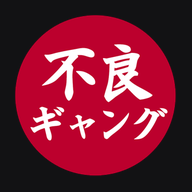
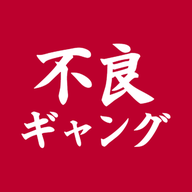
Icône de l'application : plein rouge, texte agrandi
Claude-Session: https://claude.ai/code/session_01ShgbxL6GpEPzbudUpDfTjj

diff --git a/flashcard/index.html b/flashcard/index.html
@@ -8,7 +8,7 @@
 <meta name="theme-color" content="#141312" media="(prefers-color-scheme: dark)">
 <meta name="apple-mobile-web-app-capable" content="yes">
 <meta name="apple-mobile-web-app-title" content="Carnet">
-<link rel="apple-touch-icon" href="/apple-touch-icon.png">
+<link rel="apple-touch-icon" href="/apple-touch-icon.png?v=2">
 <title>Carnet · FuryoGang</title>
 <link rel="preconnect" href="https://fonts.googleapis.com">
 <link href="https://fonts.googleapis.com/css2?family=Shippori+Mincho+B1:wght@700;800&display=swap" rel="stylesheet">
